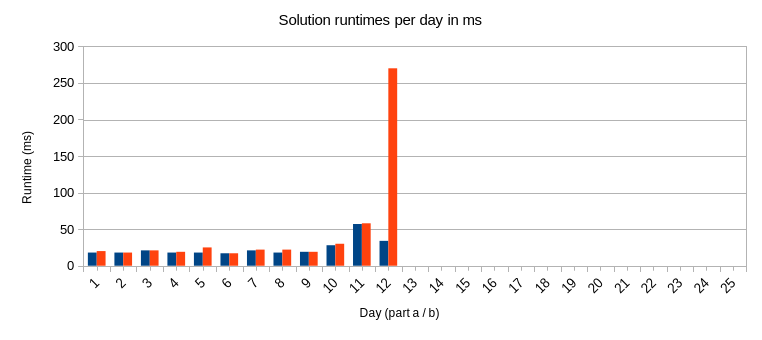
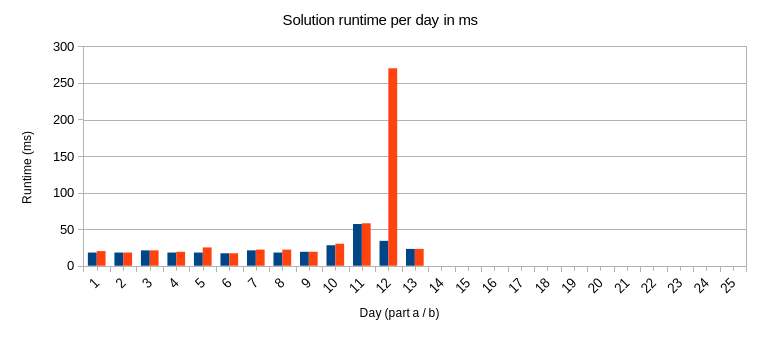
cleanup 13

Changed region(s): [[0.3622, 0.0294, 0.6339, 0.0882], [0.5131, 0.7353, 0.5735, 0.7941]]

diff --git a/13/b.ts b/13/b.ts
@@ -1,20 +1,19 @@
-import { toTransposedStringArray } from "../helpers/transpose.ts";
+import { toTransposedStringArray, zip } from "../helpers/arrays.ts";
 
 const lines = await Deno.readTextFile("./input.txt");
 const patterns: string[] = lines.trim().split("\n\n");
 
 function findMirrorIndex(grid: string[]) {
   for (let i = 1; i < grid.length; i++) {
-    const above = grid.slice(0, i).reverse();
-    const below = grid.slice(i);
-
-    const aboveStr = above.slice(0, below.length).join("");
-    const belowStr = below.slice(0, above.length).join("");
+    const aboveMirror = grid.slice(0, i).reverse();
+    const belowMirror = grid.slice(i);
 
     let differentChars = 0;
-    for (let x = 0; x < aboveStr.length; x++) {
-      if (aboveStr[x] !== belowStr[x]) {
-        differentChars++;
+    for (const [row1, row2] of zip(aboveMirror, belowMirror)) {
+      for (let x = 0; x < row1.length; x++) {
+        if (row1[x] !== row2[x]) {
+          differentChars++;
+        }
       }
     }
 
@@ -26,12 +25,12 @@ function findMirrorIndex(grid: string[]) {
   return 0;
 }
 
-let total = 0;
+let sum = 0;
 
 patterns.forEach((pattern) => {
   const rows = pattern.split("\n");
   const transposedPattern = toTransposedStringArray(rows);
-  total += 100 * findMirrorIndex(rows) + findMirrorIndex(transposedPattern);
+  sum += 100 * findMirrorIndex(rows) + findMirrorIndex(transposedPattern);
 });
 
-console.info(total);
+console.info(sum);

diff --git a/13/a.ts b/13/a.ts
@@ -1,4 +1,4 @@
-import { toTransposedStringArray } from "../helpers/transpose.ts";
+import { toTransposedStringArray, zip } from "../helpers/arrays.ts";
 
 const lines = await Deno.readTextFile("./input.txt");
 const patterns: string[] = lines.trim().split("\n\n");
@@ -8,13 +8,12 @@ function findMirrorIndex(grid: string[]) {
     const aboveMirror = grid.slice(0, i).reverse();
     const belowMirror = grid.slice(i);
 
-    const aboveStr = aboveMirror.slice(0, belowMirror.length).join("");
-    const belowStr = belowMirror.slice(0, aboveMirror.length).join("");
-
     let differentChars = 0;
-    for (let x = 0; x < aboveStr.length; x++) {
-      if (aboveStr[x] !== belowStr[x]) {
-        differentChars++;
+    for (const [row1, row2] of zip(aboveMirror, belowMirror)) {
+      for (let x = 0; x < row1.length; x++) {
+        if (row1[x] !== row2[x]) {
+          differentChars++;
+        }
       }
     }
 
@@ -26,11 +25,12 @@ function findMirrorIndex(grid: string[]) {
   return 0;
 }
 
-let total = 0;
+let sum = 0;
+
 patterns.forEach((pattern) => {
   const rows = pattern.split("\n");
   const transposedPattern = toTransposedStringArray(rows);
-  total += 100 * findMirrorIndex(rows) + findMirrorIndex(transposedPattern);
+  sum += 100 * findMirrorIndex(rows) + findMirrorIndex(transposedPattern);
 });
 
-console.info(total);
+console.info(sum);

diff --git a/helpers/arrays.ts b/helpers/arrays.ts
@@ -14,3 +14,13 @@ export function toTransposedStringArray(rows: string[]) {
   const transposedGrid = toTransposed(grid);
   return transposedGrid.map((r) => r.join(""));
 }
+
+export function zip<T>(arrayA: T[], arrayB: T[]) {
+  const zips: [T, T][] = [];
+
+  for (let i = 0; i < Math.min(arrayA.length, arrayB.length); i++) {
+    zips.push([arrayA[i], arrayB[i]]);
+  }
+
+  return zips;
+}

diff --git a/README.md b/README.md
@@ -56,6 +56,8 @@ Debugging in Visual Studio Code
     an expanding grid.
 12. [**Hot Springs**] Generating and validating arrangements of strings with
     joker characters
+13. [**Point of Incidence**] 😠 Finding lines between columns and rows on grids
+    to fold over and create a mirror image
 
 ### 6. Solution runtime
 
